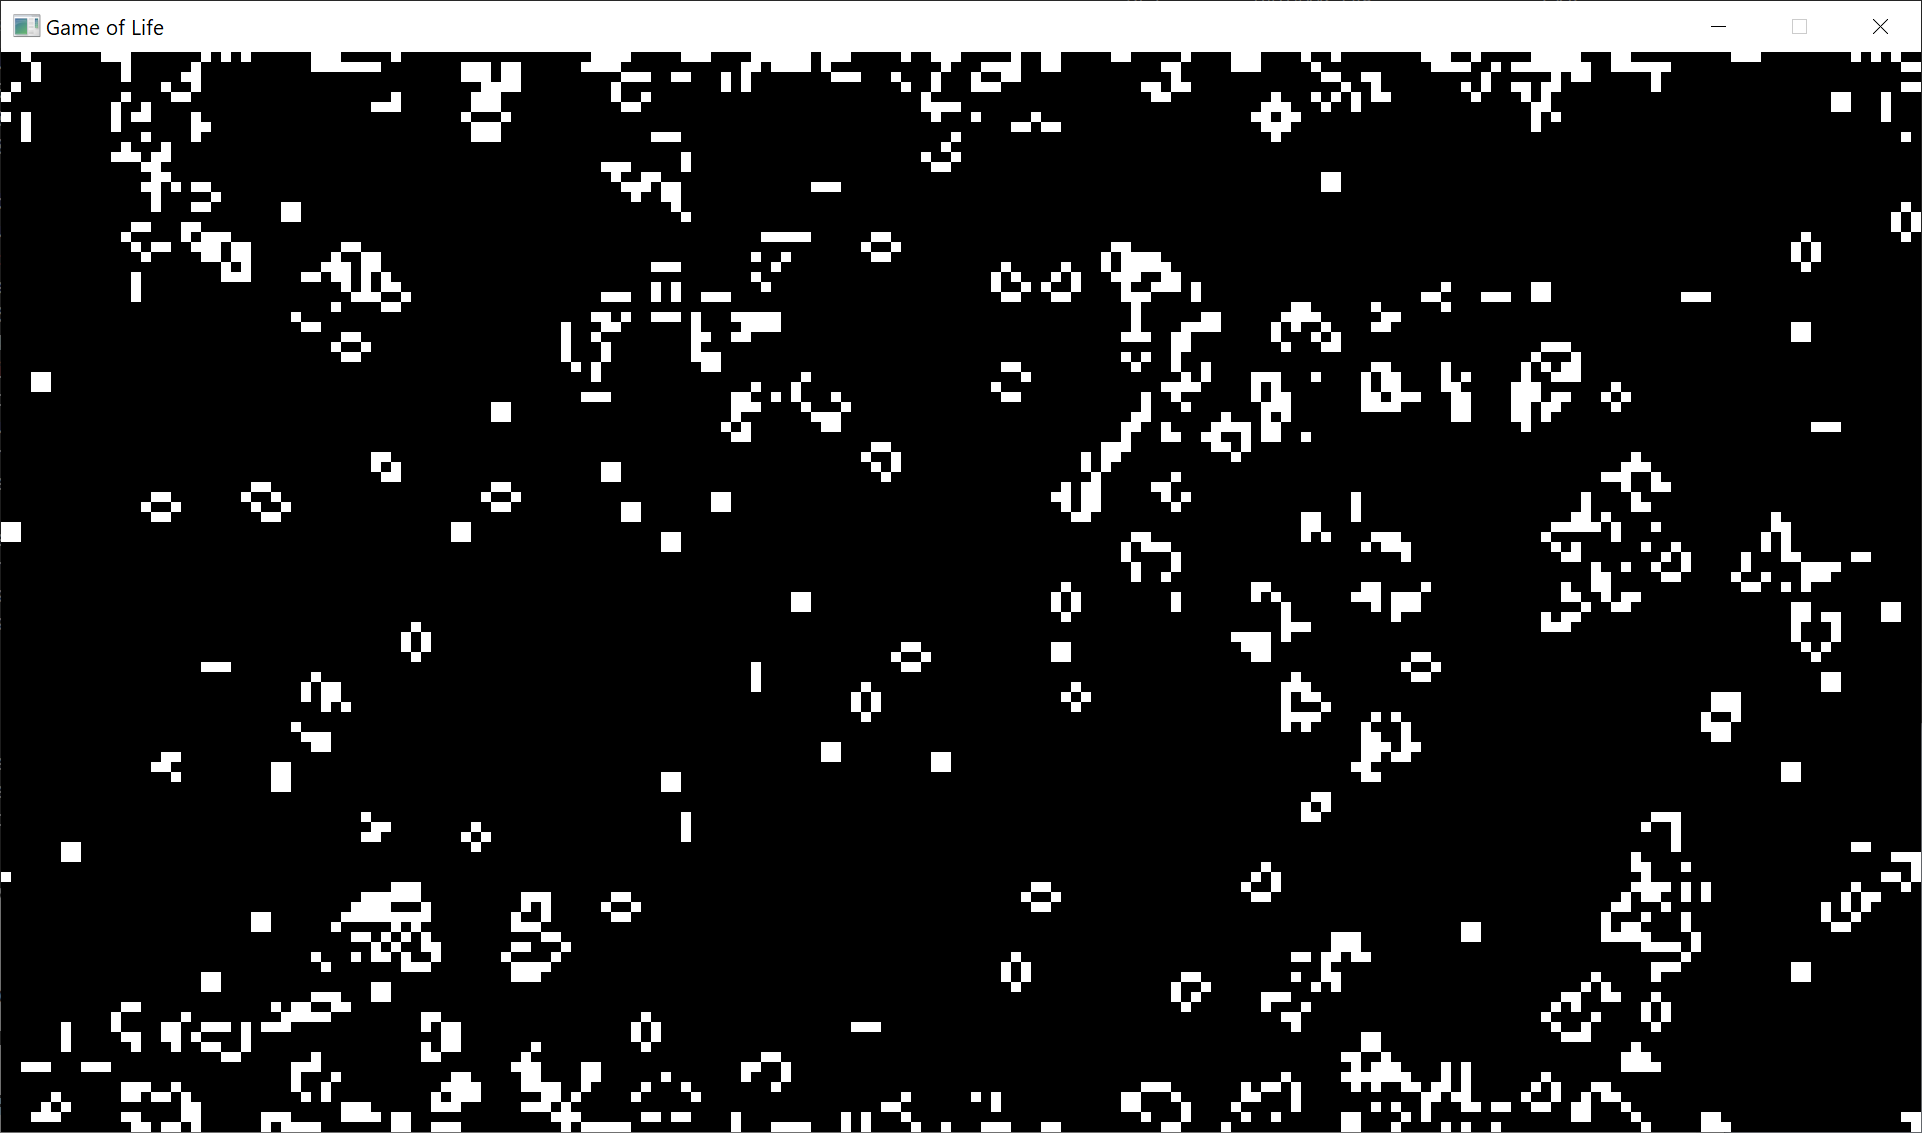
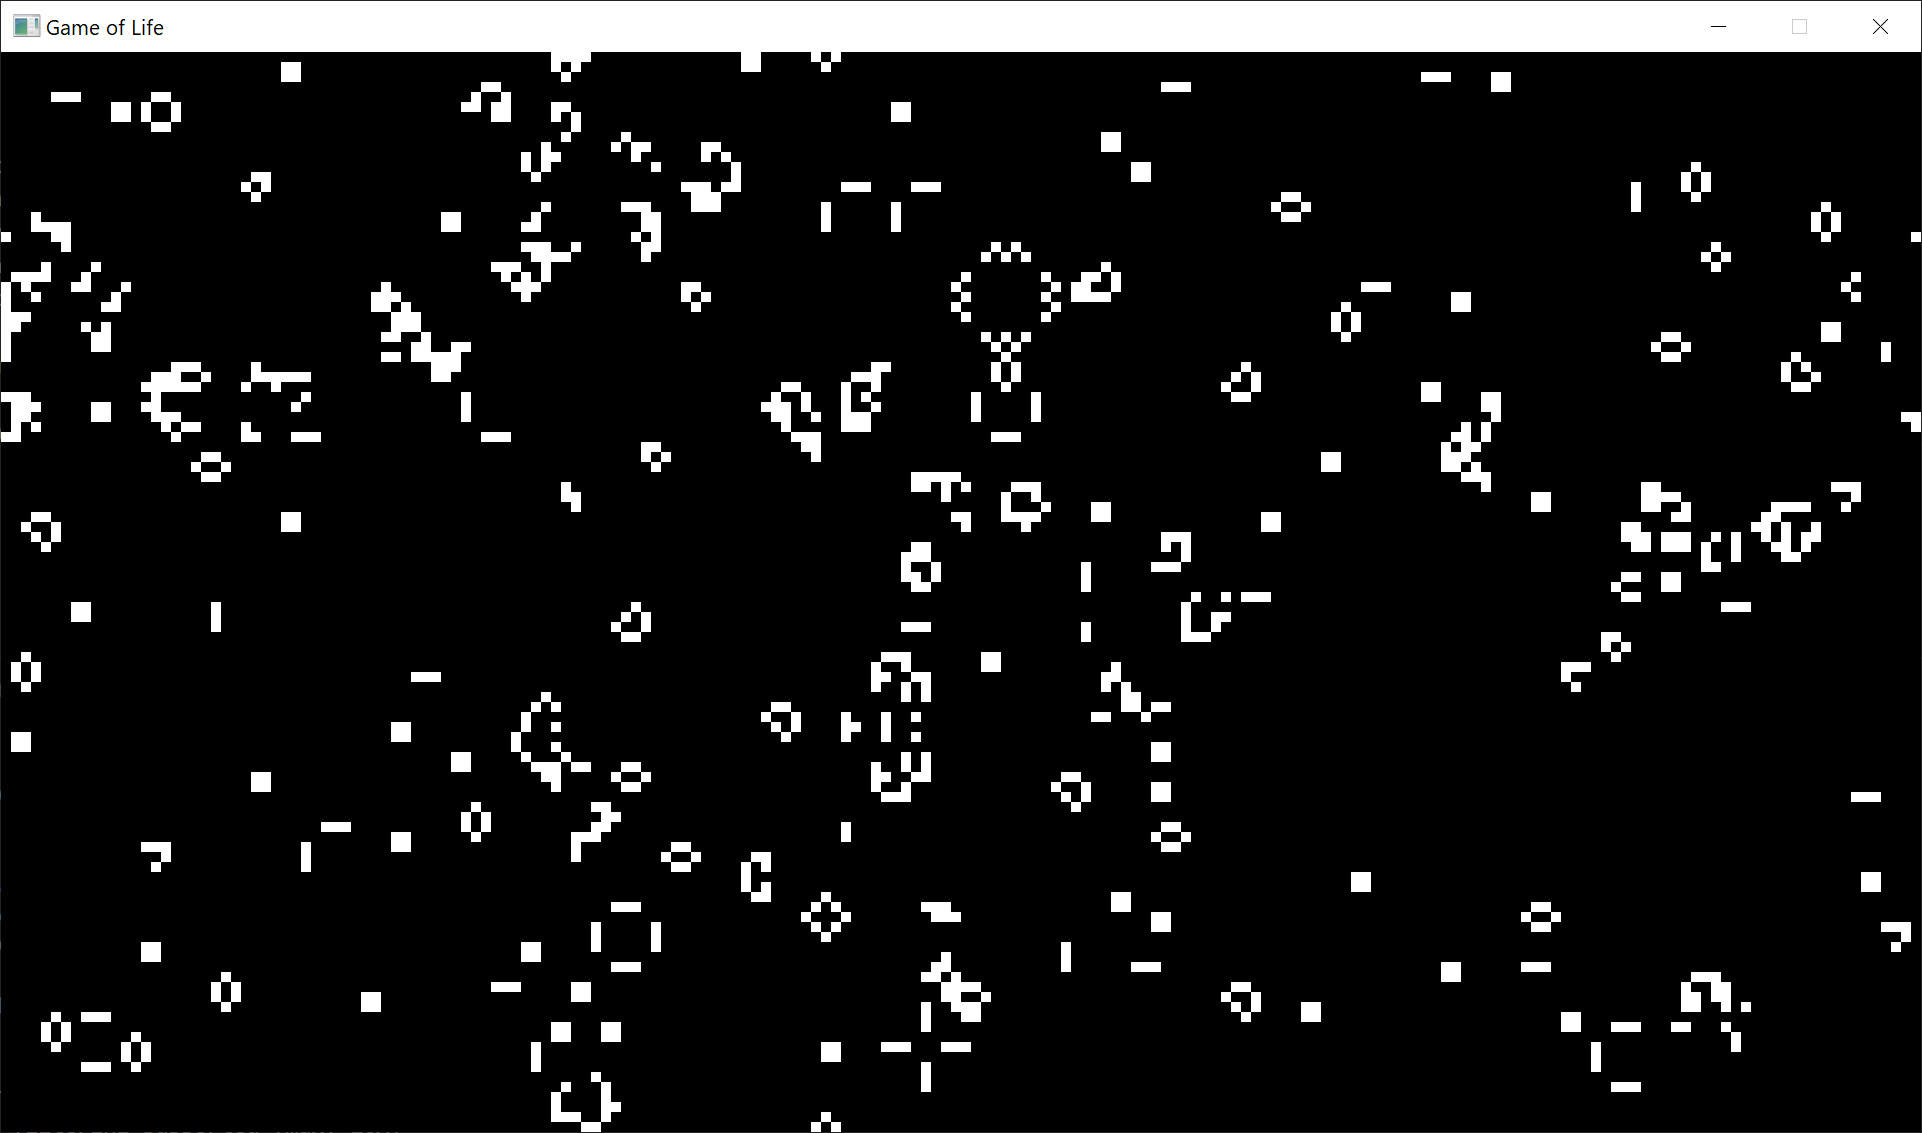
Fix bugs in game of life caused by out of range references

diff --git a/examples/game_of_life/game_of_life.cc b/examples/game_of_life/game_of_life.cc
@@ -25,6 +25,18 @@ GameOfLife::~GameOfLife()
     delete[] next_state;
 }
 
+int normalise(int& v, int max) {
+    if (v < 0) {
+        v += max;
+        return normalise(v, max);
+    }
+    if (v >= max) {
+        v -= max;
+        return normalise(v, max);
+    }
+    return v;
+}
+
 void GameOfLife::Update()
 {
     for (int i = 0; i < width * height; i++)
@@ -41,9 +53,12 @@ void GameOfLife::Update()
             int cy = i / width;
             int dx = (j % 3) - 1;
             int dy = (j / 3) - 1;
-            int nx = (cx + dx) % width;
-            int ny = (cy + dy) % height;
+            int nx = cx + dx;
+            normalise(nx, width);
+            int ny = cy + dy;
+            normalise(ny, height);
             int ni = nx + (width * ny);
+
             if (state[ni])
             {
                 nc++;
